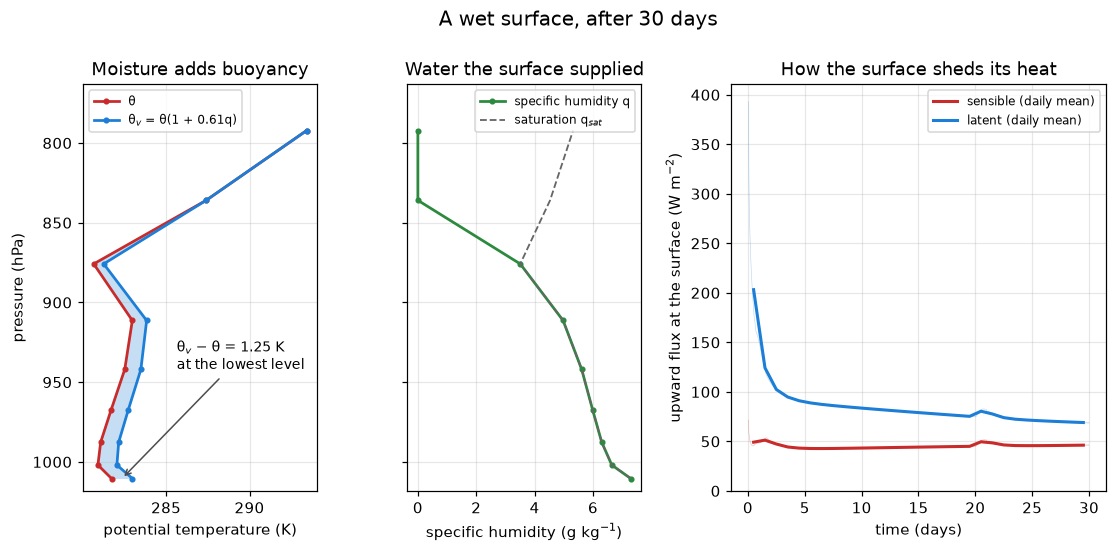
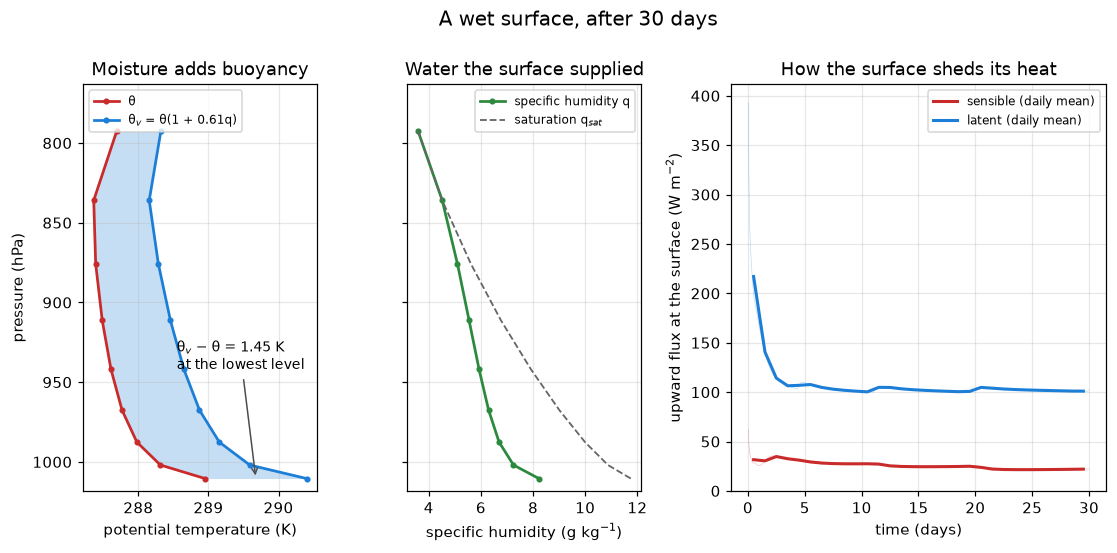
docs(tour): page 9 re-measured with the dry-static-energy boundary layer
Converged moist column 286.21 K (dry surface 266.69 K), Bowen ratio 0.20.
The boundary layer now grows about 12 km deep and mixes the whole
troposphere, which the page now says, and why that is convection's job.

Claude-Session: https://claude.ai/code/session_01MZXmxdJ9JP4hWH85RXmnPw

diff --git a/tests/test_modelling_tour.py b/tests/test_modelling_tour.py
@@ -1819,7 +1819,7 @@ def test_page9_latent_flux_exceeds_sensible_over_a_saturated_surface(
     """Page 9's headline claim, at this column's own converged temperature.
 
     The spec phrases it "over a saturated ~288 K surface". Measured: the
-    column converges at 289.37 K with a Bowen ratio of 0.70 (30-day means,
+    column converges at 286.21 K with a Bowen ratio of 0.20 (30-day means,
     1000 days, dt 1 h), so the claim holds as the spec states it. The page
     quotes both.
     """
@@ -1831,18 +1831,18 @@ def test_page9_latent_flux_exceeds_sensible_over_a_saturated_surface(
 
     assert abs(imbalance) < 0.5, f"TOA imbalance {imbalance:+.3f} W/m^2"
     assert 286.0 < surface < 292.0, (
-        f"converged surface {surface:.2f} K -- the page quotes 289.37 K")
+        f"converged surface {surface:.2f} K -- the page quotes 286.21 K")
     assert bowen < 1.0, (
         f"Bowen ratio {bowen:.2f} at surface {surface:.1f} K -- over a "
         "saturated surface the latent flux should dominate")
-    assert 0.55 < bowen < 0.85, f"Bowen ratio {bowen:.3f}; the page quotes 0.70"
+    assert 0.15 < bowen < 0.25, f"Bowen ratio {bowen:.3f}; the page quotes 0.20"
 
 
 @pytest.mark.slow
 def test_page9_headline_cell_is_already_latent_dominated(page9_cell):
     """The headline cell's 30 days: far from equilibrium, and the page says
     so, but the partition it shows is already the converged one's sign.
-    Measured 10-day means: SH 46.6, LH 72.6 W/m^2, Bowen 0.64, TOA -94."""
+    Measured 10-day means: SH 22.0, LH 102.4 W/m^2, Bowen 0.21, TOA -82."""
     _, _, state, record = page9_cell
     with _unyt_backend_restored():
         imbalance = _load("budgets").toa_imbalance(state)
@@ -1857,7 +1857,7 @@ def test_page9_condensation_removes_the_supersaturation(page9_cell):
     """The reason GridScaleCondensation is in the stack from this page on,
     by the page's own route: from the headline cell's state, ten more days
     with the sink and without it. Measured: peak relative humidity 100 %
-    with it, 707 % without, and the precipitation 1.89 mm/day."""
+    with it, 2876 % without, and the precipitation 3.57 mm/day."""
     tendencies, steppers, base, _ = page9_cell
     peaks, rain = {}, {}
     with _unyt_backend_restored():
@@ -1886,7 +1886,7 @@ def test_page9_condensation_removes_the_supersaturation(page9_cell):
         "list -- nothing the step leaves behind should be supersaturated")
     assert peaks["without"] > 4.0, (
         f"peak RH without condensation {peaks['without']:.2f} -- the page "
-        "quotes 707 % after ten days")
+        "quotes 2876 % after ten days")
     assert rain["with"] > 1.0 and rain["without"] == 0.0, rain
 
 
@@ -1894,8 +1894,8 @@ def test_page9_condensation_removes_the_supersaturation(page9_cell):
 def test_page9_a_column_with_no_moisture_sink_has_no_equilibrium():
     """What the page says happens to a sink-free column left alone: the
     vapour keeps accumulating, and the surface keeps warming. Measured at
-    day 60 of a cold start: 24.4 g/kg at the lowest level, surface 304.8 K,
-    both still rising; the run fails outright at day 370."""
+    day 60 of a cold start: 31.3 g/kg at the lowest level, surface 310.5 K,
+    both still rising; the run fails outright at day 464."""
     with _unyt_backend_restored():
         _, _, state, record = _page9_run(24 * 60, condensation=False)
     q_lowest = float(state["specific_humidity"].values[0, 0, 0])
@@ -1907,13 +1907,14 @@ def test_page9_a_column_with_no_moisture_sink_has_no_equilibrium():
 @pytest.mark.slow
 def test_page9_surface_relative_humidity_moves_the_bowen_ratio(page9_cell):
     """Page 9's knob, by the knob cell's route (30-day cold starts), over the
-    range the page says was tested. Measured 10-day means: Bowen 3.75 at RH
-    0.4 and 0.64 at 1.0 -- the partition flips."""
+    range the page says was tested. Measured 10-day means: Bowen 0.89 at RH
+    0.4 and 0.21 at 1.0 -- the partition moves toward sensible heat (it flips
+    only once the column has converged)."""
     with _unyt_backend_restored():
         _, _, _, dry = _page9_run(PAGE9_CELL_STEPS,
                                   surface_relative_humidity=0.4)
     wet = page9_cell[3]
-    assert _bowen(dry, 10.0) > 1.0 > _bowen(wet, 10.0), (
+    assert _bowen(dry, 10.0) > 3.0 * _bowen(wet, 10.0), (
         f"Bowen ratio {_bowen(dry, 10.0):.2f} at RH 0.4, "
         f"{_bowen(wet, 10.0):.2f} at RH 1.0 -- a drier surface partitions "
         "more into sensible heat")
@@ -1922,13 +1923,13 @@ def test_page9_surface_relative_humidity_moves_the_bowen_ratio(page9_cell):
 @pytest.mark.slow
 def test_page9_a_drier_surface_ends_colder(page9_equilibrium):
     """The knob's converged half, which the page quotes because it reverses
-    the 30-day answer: at RH 0.4 the column settles at 288.32 K, 1.05 K
-    colder than at RH 1.0, at Bowen 4.15. Less vapour, less greenhouse."""
+    the 30-day answer: at RH 0.4 the column settles at 283.45 K, 2.76 K
+    colder than at RH 1.0, at Bowen 1.48. Less vapour, less greenhouse."""
     with _unyt_backend_restored():
         _, _, _, dry = _page9_run(PAGE9_STEPS, surface_relative_humidity=0.4)
     wet = page9_equilibrium[3]
-    assert _bowen(dry, 30.0) > 3.0
-    assert dry.mean("ts") < wet.mean("ts") - 0.5, (
+    assert _bowen(dry, 30.0) > 1.0
+    assert dry.mean("ts") < wet.mean("ts") - 1.5, (
         f"RH 0.4 at {dry.mean('ts'):.2f} K vs RH 1.0 at "
         f"{wet.mean('ts'):.2f} K -- the page says the drier column ends "
         "colder")
@@ -1939,10 +1940,10 @@ def test_page9_the_surface_supplies_a_greenhouse_and_a_deeper_mixed_layer(
         page9_equilibrium):
     """Two converged comparisons against the same column over a dry surface.
 
-    Measured: dry 266.58 K against moist 289.37 K, the water-vapour
-    greenhouse the surface supplied; and a boundary layer whose median depth
-    is 445 m dry and 723 m moist (medians, because the depth jumps for single
-    steps and the mean is not where it sits).
+    Measured: dry 266.69 K against moist 286.21 K, the water-vapour
+    greenhouse the surface supplied; and a boundary layer about 8.1 km deep
+    dry and 12.0 km moist (medians, a habit from when the depth jumped for
+    single steps; it now holds steady).
     """
     with _unyt_backend_restored():
         _, _, _, dry = _page9_run(PAGE9_STEPS, surface_relative_humidity=0.0)
@@ -1950,13 +1951,13 @@ def test_page9_the_surface_supplies_a_greenhouse_and_a_deeper_mixed_layer(
     warming = moist.mean("ts") - dry.mean("ts")
     assert 18.0 < warming < 28.0, (
         f"moist minus dry surface temperature {warming:.2f} K -- the page "
-        "quotes about 23 K")
+        "quotes about 20 K")
 
     def median_depth(record):
         days = record["days"]
         return float(np.median(record["blh"][days > days[-1] - 30.0]))
 
-    assert median_depth(moist) > median_depth(dry) + 150.0, (
+    assert median_depth(moist) > median_depth(dry) + 2000.0, (
         f"median boundary-layer depth {median_depth(moist):.0f} m moist vs "
         f"{median_depth(dry):.0f} m dry")
 
